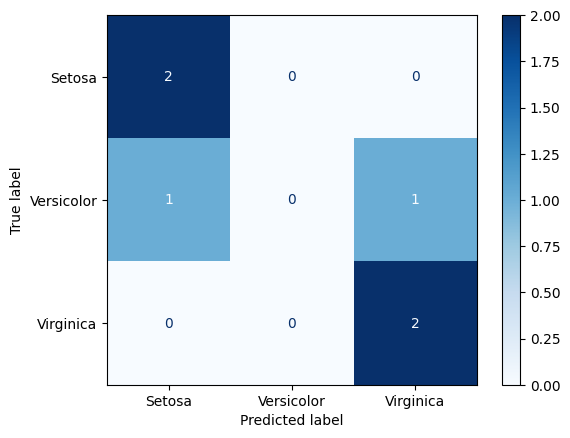
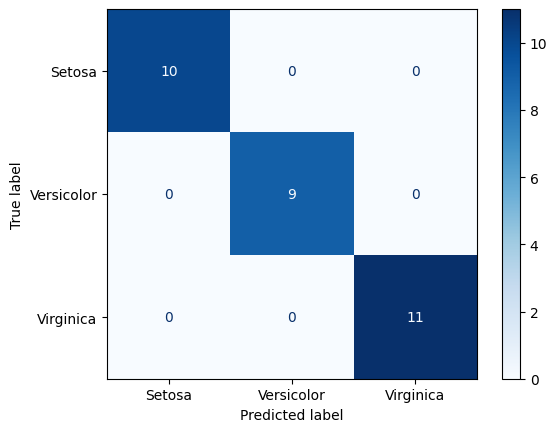
updated

diff --git a/src/train.py b/src/train.py
@@ -49,9 +49,9 @@ import os
 import matplotlib.pyplot as plt
 from sklearn.metrics import confusion_matrix, ConfusionMatrixDisplay
 
-# Example: true and predicted labels
-y_true = [0, 1, 2, 2, 0, 1]
-y_pred = [0, 0, 2, 2, 0, 2]
+# true and predicted labels
+y_true = y_test
+y_pred = model.predict(X_test)
 
 
 
@@ -60,9 +60,9 @@ cm = confusion_matrix(y_true, y_pred, labels=[0, 1, 2])
 
 # 2. Display it
 disp = ConfusionMatrixDisplay(confusion_matrix=cm, display_labels=["Setosa", "Versicolor", "Virginica"])
-disp.plot(cmap="Blues")  # You can change 'Blues' to another colormap like 'viridis' or 'coolwarm'
+disp.plot(cmap="Blues") 
 
-# 3. Create the outputs folder (if it doesn’t exist)
+# 3. Create the outputs folder
 os.makedirs("outputs", exist_ok=True)
 
 # 4. Save the confusion matrix as a PNG file
